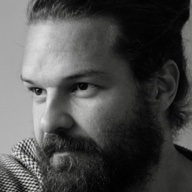
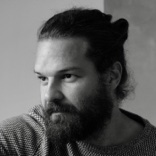
Header card: the whole photo, uncropped, with the About photo's dark border
The card image link now carries a version stamp, so a new photo shows up
straight away instead of after the cache expires.

diff --git a/assets/style.css b/assets/style.css
@@ -36,8 +36,8 @@ h1, h2, h3 { font-family: var(--display); line-height: 1.1; margin: 0; }
 .nav { position: sticky; top: 0; z-index: 20; display: flex; align-items: center; justify-content: space-between; gap: 16px; padding: 14px clamp(16px, 4vw, 40px); background: rgba(17,17,24,.85); backdrop-filter: blur(10px); border-bottom: 1px solid var(--line); }
 .brand { position: relative; font: 700 18px var(--display); text-decoration: none; display: flex; align-items: center; padding-left: 66px; }
 /* A square photo card that hangs down over the header's bottom border. */
-.brand-card { position: absolute; left: 0; top: calc(50% - 14px); width: 52px; height: 52px; border-radius: 6px; overflow: hidden; background: var(--surface-2); box-shadow: 3px 4px 0 var(--accent); transform: rotate(-5deg); transition: transform .2s cubic-bezier(.2,.8,.2,1.2); }
-.brand-card img { width: 100%; height: 100%; object-fit: cover; }
+.brand-card { position: absolute; left: 0; top: calc(50% - 14px); width: 52px; height: 52px; border-radius: 6px; overflow: hidden; border: 2px solid var(--line); background: var(--surface-2); box-shadow: 3px 4px 0 var(--accent); transform: rotate(-5deg); transition: transform .2s cubic-bezier(.2,.8,.2,1.2); }
+.brand-card img { width: 100%; height: 100%; object-fit: cover; filter: grayscale(1) contrast(1.05); }
 .brand:hover .brand-card { transform: rotate(0) scale(1.08); }
 .nav nav { display: flex; align-items: center; gap: clamp(10px, 2.4vw, 26px); font-size: 15px; }
 .nav nav a:not(.btn) { text-decoration: none; color: var(--muted); }

diff --git a/index.html b/index.html
@@ -12,12 +12,12 @@
 <link rel="preconnect" href="https://fonts.googleapis.com">
 <link rel="preconnect" href="https://fonts.gstatic.com" crossorigin>
 <link href="https://fonts.googleapis.com/css2?family=Inter:wght@400;500;600&family=Press+Start+2P&family=Space+Grotesk:wght@500;700&display=swap" rel="stylesheet">
-<link rel="stylesheet" href="assets/style.css?v=3111b9bb">
+<link rel="stylesheet" href="assets/style.css?v=c6cb38ca">
 </head>
 <body>
 <a class="skip" href="#main">Skip to content</a>
 <header class="nav">
-  <a class="brand" href=""><span class="brand-card" aria-hidden="true"><img src="assets/img/me-card.jpg" alt="" width="52" height="52"></span>Joshua Kernich</a>
+  <a class="brand" href=""><span class="brand-card" aria-hidden="true"><img src="assets/img/me-card.jpg?v=2c0c0fa1" alt="" width="52" height="52"></span>Joshua Kernich</a>
   <nav>
     <a href="#levels">Projects</a>
     <a href="#about">About</a>
@@ -226,7 +226,7 @@
   <p>© Joshua Kernich · <a href="mailto:joshua.kernich@gmail.com">joshua.kernich@gmail.com</a></p>
   <p class="pixel small">Thanks for playing</p>
 </footer>
-<script src="assets/dancer_sprites.js?v=3111b9bb" defer></script>
-<script src="assets/site.js?v=3111b9bb" defer></script>
+<script src="assets/dancer_sprites.js?v=c6cb38ca" defer></script>
+<script src="assets/site.js?v=c6cb38ca" defer></script>
 </body>
 </html>

diff --git a/projects/ahead-of-the-game/index.html b/projects/ahead-of-the-game/index.html
@@ -12,12 +12,12 @@
 <link rel="preconnect" href="https://fonts.googleapis.com">
 <link rel="preconnect" href="https://fonts.gstatic.com" crossorigin>
 <link href="https://fonts.googleapis.com/css2?family=Inter:wght@400;500;600&family=Press+Start+2P&family=Space+Grotesk:wght@500;700&display=swap" rel="stylesheet">
-<link rel="stylesheet" href="../../assets/style.css?v=3111b9bb">
+<link rel="stylesheet" href="../../assets/style.css?v=c6cb38ca">
 </head>
 <body>
 <a class="skip" href="#main">Skip to content</a>
 <header class="nav">
-  <a class="brand" href="../../"><span class="brand-card" aria-hidden="true"><img src="../../assets/img/me-card.jpg" alt="" width="52" height="52"></span>Joshua Kernich</a>
+  <a class="brand" href="../../"><span class="brand-card" aria-hidden="true"><img src="../../assets/img/me-card.jpg?v=2c0c0fa1" alt="" width="52" height="52"></span>Joshua Kernich</a>
   <nav>
     <a href="../../#levels">Projects</a>
     <a href="../../#about">About</a>
@@ -55,6 +55,6 @@
   <p>© Joshua Kernich · <a href="mailto:joshua.kernich@gmail.com">joshua.kernich@gmail.com</a></p>
   <p class="pixel small">Thanks for playing</p>
 </footer>
-<script src="../../assets/site.js?v=3111b9bb" defer></script>
+<script src="../../assets/site.js?v=c6cb38ca" defer></script>
 </body>
 </html>

diff --git a/projects/batman/index.html b/projects/batman/index.html
@@ -12,12 +12,12 @@
 <link rel="preconnect" href="https://fonts.googleapis.com">
 <link rel="preconnect" href="https://fonts.gstatic.com" crossorigin>
 <link href="https://fonts.googleapis.com/css2?family=Inter:wght@400;500;600&family=Press+Start+2P&family=Space+Grotesk:wght@500;700&display=swap" rel="stylesheet">
-<link rel="stylesheet" href="../../assets/style.css?v=3111b9bb">
+<link rel="stylesheet" href="../../assets/style.css?v=c6cb38ca">
 </head>
 <body>
 <a class="skip" href="#main">Skip to content</a>
 <header class="nav">
-  <a class="brand" href="../../"><span class="brand-card" aria-hidden="true"><img src="../../assets/img/me-card.jpg" alt="" width="52" height="52"></span>Joshua Kernich</a>
+  <a class="brand" href="../../"><span class="brand-card" aria-hidden="true"><img src="../../assets/img/me-card.jpg?v=2c0c0fa1" alt="" width="52" height="52"></span>Joshua Kernich</a>
   <nav>
     <a href="../../#levels">Projects</a>
     <a href="../../#about">About</a>
@@ -55,6 +55,6 @@
   <p>© Joshua Kernich · <a href="mailto:joshua.kernich@gmail.com">joshua.kernich@gmail.com</a></p>
   <p class="pixel small">Thanks for playing</p>
 </footer>
-<script src="../../assets/site.js?v=3111b9bb" defer></script>
+<script src="../../assets/site.js?v=c6cb38ca" defer></script>
 </body>
 </html>

diff --git a/projects/box-party/index.html b/projects/box-party/index.html
@@ -12,12 +12,12 @@
 <link rel="preconnect" href="https://fonts.googleapis.com">
 <link rel="preconnect" href="https://fonts.gstatic.com" crossorigin>
 <link href="https://fonts.googleapis.com/css2?family=Inter:wght@400;500;600&family=Press+Start+2P&family=Space+Grotesk:wght@500;700&display=swap" rel="stylesheet">
-<link rel="stylesheet" href="../../assets/style.css?v=3111b9bb">
+<link rel="stylesheet" href="../../assets/style.css?v=c6cb38ca">
 </head>
 <body>
 <a class="skip" href="#main">Skip to content</a>
 <header class="nav">
-  <a class="brand" href="../../"><span class="brand-card" aria-hidden="true"><img src="../../assets/img/me-card.jpg" alt="" width="52" height="52"></span>Joshua Kernich</a>
+  <a class="brand" href="../../"><span class="brand-card" aria-hidden="true"><img src="../../assets/img/me-card.jpg?v=2c0c0fa1" alt="" width="52" height="52"></span>Joshua Kernich</a>
   <nav>
     <a href="../../#levels">Projects</a>
     <a href="../../#about">About</a>
@@ -55,6 +55,6 @@
   <p>© Joshua Kernich · <a href="mailto:joshua.kernich@gmail.com">joshua.kernich@gmail.com</a></p>
   <p class="pixel small">Thanks for playing</p>
 </footer>
-<script src="../../assets/site.js?v=3111b9bb" defer></script>
+<script src="../../assets/site.js?v=c6cb38ca" defer></script>
 </body>
 </html>

diff --git a/projects/escape-ai/index.html b/projects/escape-ai/index.html
@@ -12,12 +12,12 @@
 <link rel="preconnect" href="https://fonts.googleapis.com">
 <link rel="preconnect" href="https://fonts.gstatic.com" crossorigin>
 <link href="https://fonts.googleapis.com/css2?family=Inter:wght@400;500;600&family=Press+Start+2P&family=Space+Grotesk:wght@500;700&display=swap" rel="stylesheet">
-<link rel="stylesheet" href="../../assets/style.css?v=3111b9bb">
+<link rel="stylesheet" href="../../assets/style.css?v=c6cb38ca">
 </head>
 <body>
 <a class="skip" href="#main">Skip to content</a>
 <header class="nav">
-  <a class="brand" href="../../"><span class="brand-card" aria-hidden="true"><img src="../../assets/img/me-card.jpg" alt="" width="52" height="52"></span>Joshua Kernich</a>
+  <a class="brand" href="../../"><span class="brand-card" aria-hidden="true"><img src="../../assets/img/me-card.jpg?v=2c0c0fa1" alt="" width="52" height="52"></span>Joshua Kernich</a>
   <nav>
     <a href="../../#levels">Projects</a>
     <a href="../../#about">About</a>
@@ -55,6 +55,6 @@
   <p>© Joshua Kernich · <a href="mailto:joshua.kernich@gmail.com">joshua.kernich@gmail.com</a></p>
   <p class="pixel small">Thanks for playing</p>
 </footer>
-<script src="../../assets/site.js?v=3111b9bb" defer></script>
+<script src="../../assets/site.js?v=c6cb38ca" defer></script>
 </body>
 </html>

diff --git a/projects/family-man/index.html b/projects/family-man/index.html
@@ -12,12 +12,12 @@
 <link rel="preconnect" href="https://fonts.googleapis.com">
 <link rel="preconnect" href="https://fonts.gstatic.com" crossorigin>
 <link href="https://fonts.googleapis.com/css2?family=Inter:wght@400;500;600&family=Press+Start+2P&family=Space+Grotesk:wght@500;700&display=swap" rel="stylesheet">
-<link rel="stylesheet" href="../../assets/style.css?v=3111b9bb">
+<link rel="stylesheet" href="../../assets/style.css?v=c6cb38ca">
 </head>
 <body>
 <a class="skip" href="#main">Skip to content</a>
 <header class="nav">
-  <a class="brand" href="../../"><span class="brand-card" aria-hidden="true"><img src="../../assets/img/me-card.jpg" alt="" width="52" height="52"></span>Joshua Kernich</a>
+  <a class="brand" href="../../"><span class="brand-card" aria-hidden="true"><img src="../../assets/img/me-card.jpg?v=2c0c0fa1" alt="" width="52" height="52"></span>Joshua Kernich</a>
   <nav>
     <a href="../../#levels">Projects</a>
     <a href="../../#about">About</a>
@@ -55,6 +55,6 @@
   <p>© Joshua Kernich · <a href="mailto:joshua.kernich@gmail.com">joshua.kernich@gmail.com</a></p>
   <p class="pixel small">Thanks for playing</p>
 </footer>
-<script src="../../assets/site.js?v=3111b9bb" defer></script>
+<script src="../../assets/site.js?v=c6cb38ca" defer></script>
 </body>
 </html>

diff --git a/projects/floor-is-lava/index.html b/projects/floor-is-lava/index.html
@@ -12,12 +12,12 @@
 <link rel="preconnect" href="https://fonts.googleapis.com">
 <link rel="preconnect" href="https://fonts.gstatic.com" crossorigin>
 <link href="https://fonts.googleapis.com/css2?family=Inter:wght@400;500;600&family=Press+Start+2P&family=Space+Grotesk:wght@500;700&display=swap" rel="stylesheet">
-<link rel="stylesheet" href="../../assets/style.css?v=3111b9bb">
+<link rel="stylesheet" href="../../assets/style.css?v=c6cb38ca">
 </head>
 <body>
 <a class="skip" href="#main">Skip to content</a>
 <header class="nav">
-  <a class="brand" href="../../"><span class="brand-card" aria-hidden="true"><img src="../../assets/img/me-card.jpg" alt="" width="52" height="52"></span>Joshua Kernich</a>
+  <a class="brand" href="../../"><span class="brand-card" aria-hidden="true"><img src="../../assets/img/me-card.jpg?v=2c0c0fa1" alt="" width="52" height="52"></span>Joshua Kernich</a>
   <nav>
     <a href="../../#levels">Projects</a>
     <a href="../../#about">About</a>
@@ -55,6 +55,6 @@
   <p>© Joshua Kernich · <a href="mailto:joshua.kernich@gmail.com">joshua.kernich@gmail.com</a></p>
   <p class="pixel small">Thanks for playing</p>
 </footer>
-<script src="../../assets/site.js?v=3111b9bb" defer></script>
+<script src="../../assets/site.js?v=c6cb38ca" defer></script>
 </body>
 </html>

diff --git a/projects/football-arcade/index.html b/projects/football-arcade/index.html
@@ -12,12 +12,12 @@
 <link rel="preconnect" href="https://fonts.googleapis.com">
 <link rel="preconnect" href="https://fonts.gstatic.com" crossorigin>
 <link href="https://fonts.googleapis.com/css2?family=Inter:wght@400;500;600&family=Press+Start+2P&family=Space+Grotesk:wght@500;700&display=swap" rel="stylesheet">
-<link rel="stylesheet" href="../../assets/style.css?v=3111b9bb">
+<link rel="stylesheet" href="../../assets/style.css?v=c6cb38ca">
 </head>
 <body>
 <a class="skip" href="#main">Skip to content</a>
 <header class="nav">
-  <a class="brand" href="../../"><span class="brand-card" aria-hidden="true"><img src="../../assets/img/me-card.jpg" alt="" width="52" height="52"></span>Joshua Kernich</a>
+  <a class="brand" href="../../"><span class="brand-card" aria-hidden="true"><img src="../../assets/img/me-card.jpg?v=2c0c0fa1" alt="" width="52" height="52"></span>Joshua Kernich</a>
   <nav>
     <a href="../../#levels">Projects</a>
     <a href="../../#about">About</a>
@@ -55,6 +55,6 @@
   <p>© Joshua Kernich · <a href="mailto:joshua.kernich@gmail.com">joshua.kernich@gmail.com</a></p>
   <p class="pixel small">Thanks for playing</p>
 </footer>
-<script src="../../assets/site.js?v=3111b9bb" defer></script>
+<script src="../../assets/site.js?v=c6cb38ca" defer></script>
 </body>
 </html>

diff --git a/projects/ghostbusters/index.html b/projects/ghostbusters/index.html
@@ -12,12 +12,12 @@
 <link rel="preconnect" href="https://fonts.googleapis.com">
 <link rel="preconnect" href="https://fonts.gstatic.com" crossorigin>
 <link href="https://fonts.googleapis.com/css2?family=Inter:wght@400;500;600&family=Press+Start+2P&family=Space+Grotesk:wght@500;700&display=swap" rel="stylesheet">
-<link rel="stylesheet" href="../../assets/style.css?v=3111b9bb">
+<link rel="stylesheet" href="../../assets/style.css?v=c6cb38ca">
 </head>
 <body>
 <a class="skip" href="#main">Skip to content</a>
 <header class="nav">
-  <a class="brand" href="../../"><span class="brand-card" aria-hidden="true"><img src="../../assets/img/me-card.jpg" alt="" width="52" height="52"></span>Joshua Kernich</a>
+  <a class="brand" href="../../"><span class="brand-card" aria-hidden="true"><img src="../../assets/img/me-card.jpg?v=2c0c0fa1" alt="" width="52" height="52"></span>Joshua Kernich</a>
   <nav>
     <a href="../../#levels">Projects</a>
     <a href="../../#about">About</a>
@@ -55,6 +55,6 @@
   <p>© Joshua Kernich · <a href="mailto:joshua.kernich@gmail.com">joshua.kernich@gmail.com</a></p>
   <p class="pixel small">Thanks for playing</p>
 </footer>
-<script src="../../assets/site.js?v=3111b9bb" defer></script>
+<script src="../../assets/site.js?v=c6cb38ca" defer></script>
 </body>
 </html>

diff --git a/projects/gripable/index.html b/projects/gripable/index.html
@@ -12,12 +12,12 @@
 <link rel="preconnect" href="https://fonts.googleapis.com">
 <link rel="preconnect" href="https://fonts.gstatic.com" crossorigin>
 <link href="https://fonts.googleapis.com/css2?family=Inter:wght@400;500;600&family=Press+Start+2P&family=Space+Grotesk:wght@500;700&display=swap" rel="stylesheet">
-<link rel="stylesheet" href="../../assets/style.css?v=3111b9bb">
+<link rel="stylesheet" href="../../assets/style.css?v=c6cb38ca">
 </head>
 <body>
 <a class="skip" href="#main">Skip to content</a>
 <header class="nav">
-  <a class="brand" href="../../"><span class="brand-card" aria-hidden="true"><img src="../../assets/img/me-card.jpg" alt="" width="52" height="52"></span>Joshua Kernich</a>
+  <a class="brand" href="../../"><span class="brand-card" aria-hidden="true"><img src="../../assets/img/me-card.jpg?v=2c0c0fa1" alt="" width="52" height="52"></span>Joshua Kernich</a>
   <nav>
     <a href="../../#levels">Projects</a>
     <a href="../../#about">About</a>
@@ -55,6 +55,6 @@
   <p>© Joshua Kernich · <a href="mailto:joshua.kernich@gmail.com">joshua.kernich@gmail.com</a></p>
   <p class="pixel small">Thanks for playing</p>
 </footer>
-<script src="../../assets/site.js?v=3111b9bb" defer></script>
+<script src="../../assets/site.js?v=c6cb38ca" defer></script>
 </body>
 </html>

diff --git a/projects/movember-conversations/index.html b/projects/movember-conversations/index.html
@@ -12,12 +12,12 @@
 <link rel="preconnect" href="https://fonts.googleapis.com">
 <link rel="preconnect" href="https://fonts.gstatic.com" crossorigin>
 <link href="https://fonts.googleapis.com/css2?family=Inter:wght@400;500;600&family=Press+Start+2P&family=Space+Grotesk:wght@500;700&display=swap" rel="stylesheet">
-<link rel="stylesheet" href="../../assets/style.css?v=3111b9bb">
+<link rel="stylesheet" href="../../assets/style.css?v=c6cb38ca">
 </head>
 <body>
 <a class="skip" href="#main">Skip to content</a>
 <header class="nav">
-  <a class="brand" href="../../"><span class="brand-card" aria-hidden="true"><img src="../../assets/img/me-card.jpg" alt="" width="52" height="52"></span>Joshua Kernich</a>
+  <a class="brand" href="../../"><span class="brand-card" aria-hidden="true"><img src="../../assets/img/me-card.jpg?v=2c0c0fa1" alt="" width="52" height="52"></span>Joshua Kernich</a>
   <nav>
     <a href="../../#levels">Projects</a>
     <a href="../../#about">About</a>
@@ -55,6 +55,6 @@
   <p>© Joshua Kernich · <a href="mailto:joshua.kernich@gmail.com">joshua.kernich@gmail.com</a></p>
   <p class="pixel small">Thanks for playing</p>
 </footer>
-<script src="../../assets/site.js?v=3111b9bb" defer></script>
+<script src="../../assets/site.js?v=c6cb38ca" defer></script>
 </body>
 </html>
